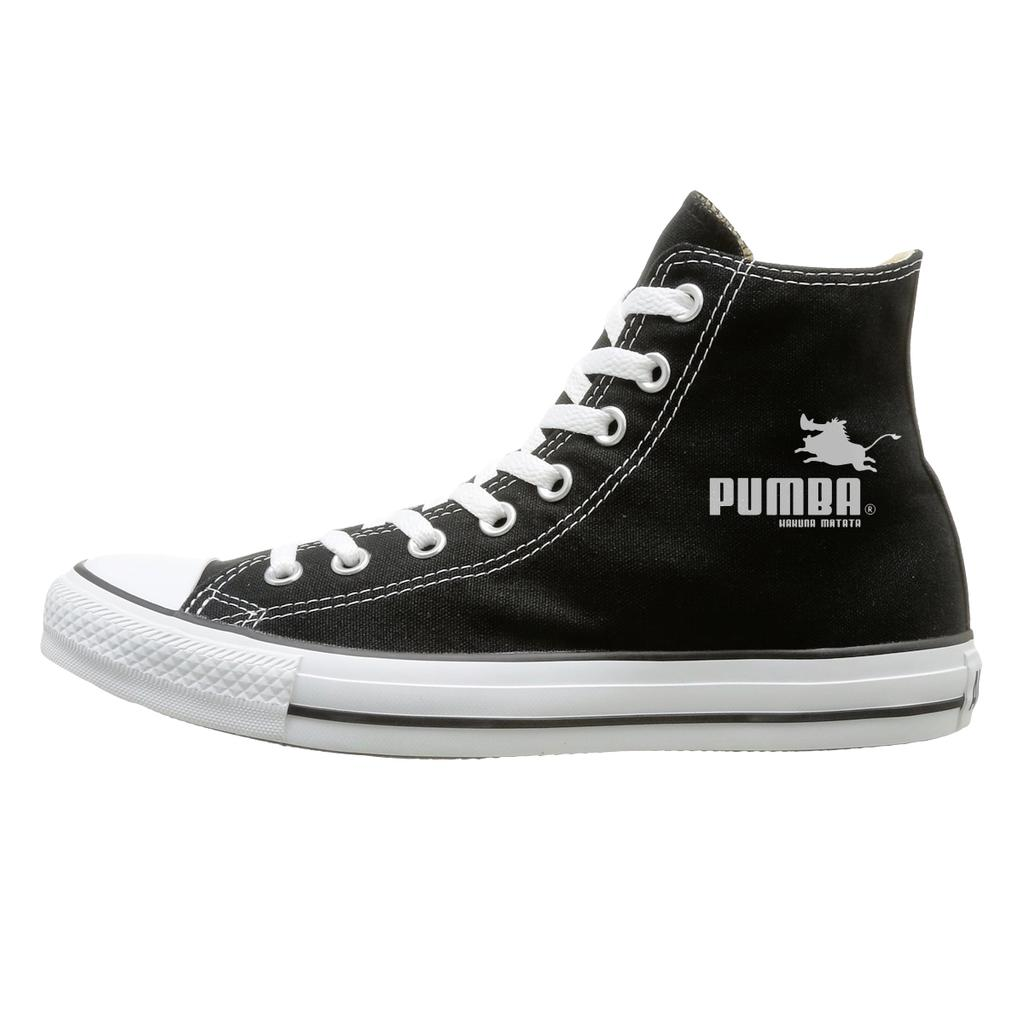
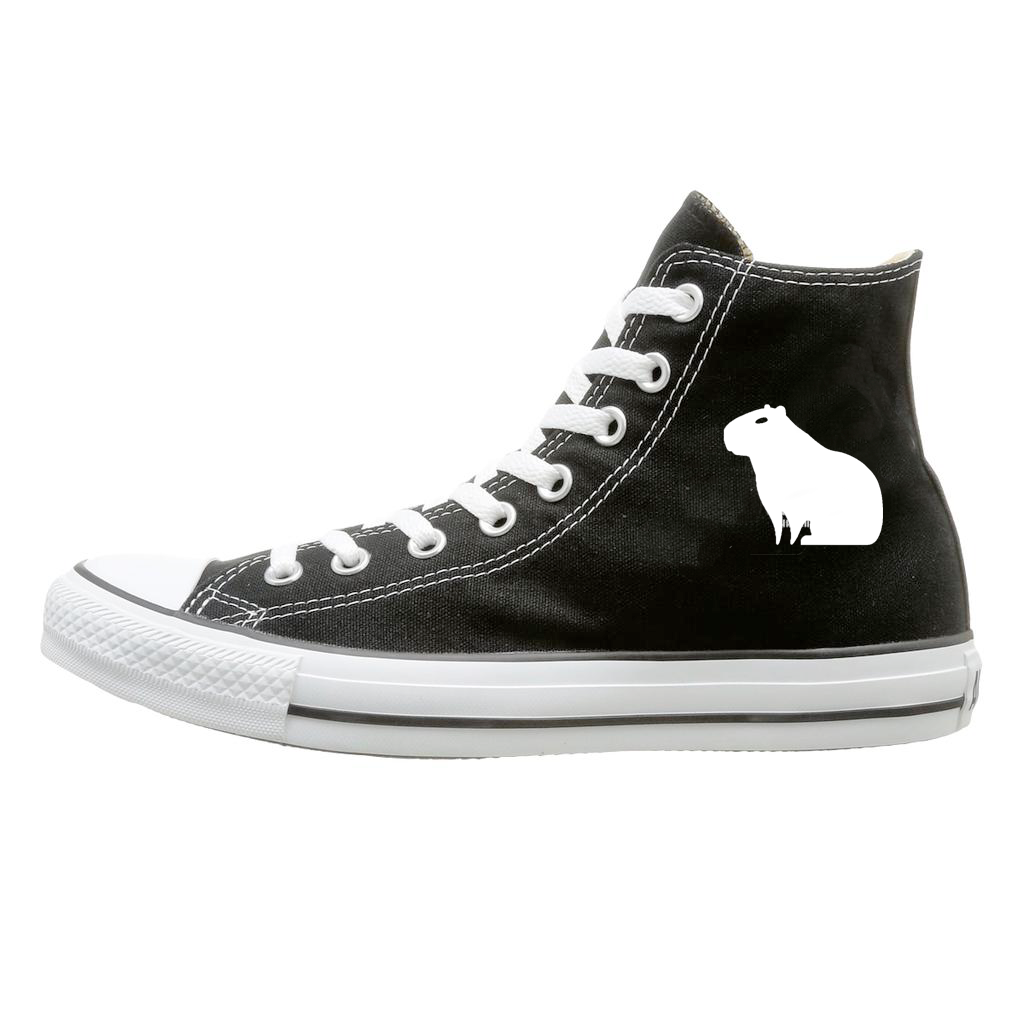
Add files via upload

Changed region(s): [[0.6562, 0.375, 0.875, 0.5312], [0.6562, 0.5312, 0.6875, 0.5625], [0.625, 0.5, 0.6562, 0.5312]]

diff --git a/index.html b/index.html
@@ -30,19 +30,19 @@
         <span></span>
      <div class="div-texto-um">
     <img class="tenis1" src="tenis1.png" alt="imagem-do-tenis1">
-    <h2 class="Hike">Hike Original</h2>
+    <h2 class="Hike">Capihike Original</h2>
     <h3 class="rel1">R$1.500,99</h3>
     <a href="compra.html"><img class="Comprar" src="Comprar.png" alt="Barra-de-Compra"></a>
      </div>
      <div class="div-texto-um">
         <img class="abibas1" src="abibas1.png" alt="imagem-do-abibas1">
-        <h2 class="Abibas">Abibas Original</h2>
+        <h2 class="Abibas">Capibas Original</h2>
         <h3 class="rel2">R$1.800,99</h3>
         <a href="compra.html"><img class="Comprar" src="Comprar.png" alt="Barra-de-Compra"></a>
      </div>
      <div class="div-texto-um">
         <img class="Pumba1" src="Pumba1.png" alt="imagem-do-Pumba1">
-        <h2 class="Pumba">Pumba Original</h2>
+        <h2 class="Pumba">Capipumba Original</h2>
         <h3 class="rel3">R$1.485,98</h3>
        <a href="compra.html"><img class="Comprar" src="Comprar.png" alt="Barra-de-Compra"></a>
      </div>
@@ -50,19 +50,19 @@
      <span></span>
      <div class="div-texto-um">
         <img class="ball1" src="ball1.png" alt="imagem-do-ball1">
-        <h2 class="Ball">Ball Star Origina</h2>
+        <h2 class="Ball"> CApiball Origina</h2>
         <h3 class="rel4">R$ 950,98</h3>
         <a href="compra.html"><img class="Comprar" src="Comprar.png" alt="Barra-de-Compra"></a>
      </div>
      <div class="div-texto-um">
         <img class="lastego1" src="lastego1.png" alt="imagem-do-lastego1">
-        <h2 class="Lastego">Lastego Original</h2>
+        <h2 class="Lastego">Capitego Original</h2>
         <h3 class="rel5">R$1.000,95</h3>
        <a href="compra.html"> <img class="Comprar" src="Comprar.png" alt="Barra-de-Compra"></a>
      </div>
      <div class="div-texto-um">
         <img class="okrei1" src="okrei1.png" alt="imagem-do-okrei">
-        <h2 class="Okrei">Okrei Original</h2>
+        <h2 class="Okrei">Capiokrei Original</h2>
         <h3 class="rel6">R$ 1.500,85</h3>
         <a href="compra.html"><img class="Comprar" src="Comprar.png" alt="Barra-de-Compra"></a>
      </div>
